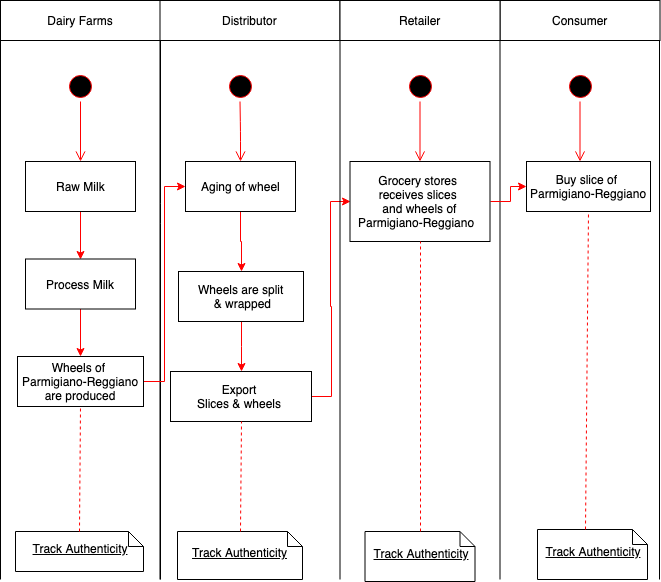
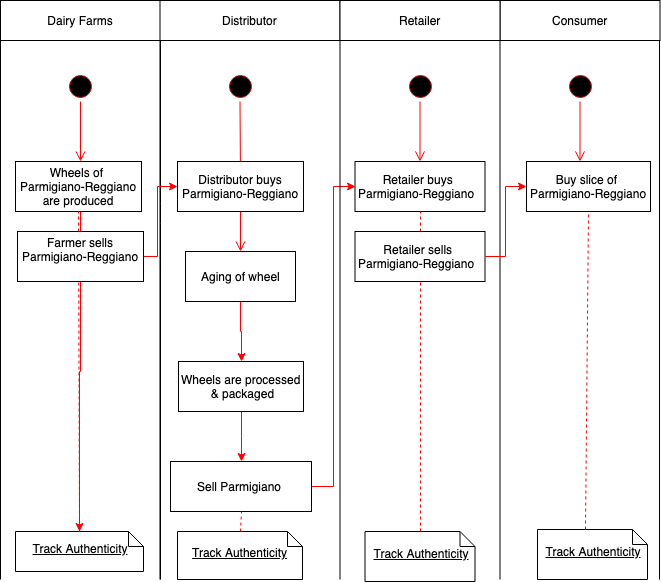
Updated readme and Diagrams

diff --git a/readme.md b/readme.md
@@ -1,41 +1,141 @@
 # Parmigiano Reggiano blockchain
 
-## Discription
+## Description
 
-## Files
+A supply chain smart contract written in Solidity and deployed on the Rinkeby test network. This Smart contract demonstrates how smart contracts will improve authenticity, efficiency and privacy between seller and buyer Supply Chains .
 
-## Architectuour
+ The supply chain used is the Parmigiano Reggiano supply chain.
 
+## Directory Structor
 
+```
+Ethereum_SupplyChian--|
+                      |--- Diagrams
+                      |       |
+                      |       |---Parmigiano_Reggiano_Activity_Diagram.png
+                      |       |  
+                      |       |---Parmigiano_Reggiano_DataModel_Diagram.png
+                      |       |   
+                      |       |---Parmigiano_Reggiano_Sequence_Diagram.png  
+                      |       |
+                      |       |---Parmigiano_Reggiano_State_Diagram.png
+                      |
+                      |  
+                      |--- build/contracts (compiled contracts)
+                      |       |      
+                      |       |---ConsumerRole.json
+                      |       |
+                      |       |---DistributorRole.json
+                      |       |
+                      |       |---FarmerRole.json
+                      |       |
+                      |       |---Mirgations.json
+                      |       |
+                      |       |---Ownable.json
+                      |       |
+                      |       |---RetailerRole.json
+                      |       |
+                      |       |---Roles.json
+                      |       |
+                      |       |---SupplyChain.json
+                      |
+                      |
+                      |--- contracts
+                      |       |        
+                      |       |---parmigianoaccesscontrol
+                      |       |        |   
+                      |       |        |---ConsumerRole.sol
+                      |       |        |
+                      |       |        |---Distributor.sol
+                      |       |        |
+                      |       |        |---FarmerRole.sol
+                      |       |        |
+                      |       |        |---RetailerRole.sol
+                      |       |        |
+                      |       |        |---Roles.sol
+                      |       |
+                      |       |---parmigianobase
+                      |       |        |
+                      |       |        |---SupplyChain.sol
+                      |       |
+                      |       |---parmigianocore
+                      |       |        |
+                      |       |        |---Ownable.sol
+                      |       |
+                      |       |---Migrations.sol
+                      |       
+                      |--- migrations
+                      |       |
+                      |       |---1_initial_migration.js
+                      |       |
+                      |       |---2_deploy_contracts.js
+                      |
+                      |--- js
+                      |       |
+                      |       |--app.js
+                      |       |
+                      |       |---truffle-contract.js
+                      |
+                      |
+                      |--- test
+                      |       |
+                      |       |---TestSupplychain.js
+                      |
+                      |
+                      |--- index.html
+                      |
+                      |
+                      |--- package-lock.json
+                      |
+                      |
+                      |--- package.json
+                      |
+                      |
+                      |--- readme.md
+                      |
+                      |
+                      |--- style.css
+                      |
+                      |
+                      |--- truffle.js
+                      |
 
-## Activity Diagram
+```
+
+---
+
+## Contract Architecture
+
+### Activity Diagram
 
 ![Activity_Diagram](/Diagrams/Parmigiano_Reggiano_Activity_Diagram.png)
 
 
----
-
-## Sequence Diagram
+### Sequence Diagram
 
 ![Sequence_Diagram](/Diagrams/Parmigiano_Reggiano_Sequence_Diagram.png)
 
 ## State Diagram
 
-![GitHub Logo](/Diagrams/Parmigiano_Reggiano_State_Diagram.png)
-
-### States
-
----
+![State Diagram](/Diagrams/Parmigiano_Reggiano_State_Diagram.png)
 
 ## DataModel Diagram
 
-![GitHub Logo](/Diagrams/Parmigiano_Reggiano_DataModel_Diagram.png)
+![DataModel Diagram](/Diagrams/Parmigiano_Reggiano_DataModel_Diagram.png)
+
+---
 
 ## Solidity Functions
 
 ## Access Control
 
+Contract owner allows for other address to be added
+
 ## Authenticity
+
+## Versions
+
+## Testing
 
 ## App.js
 
